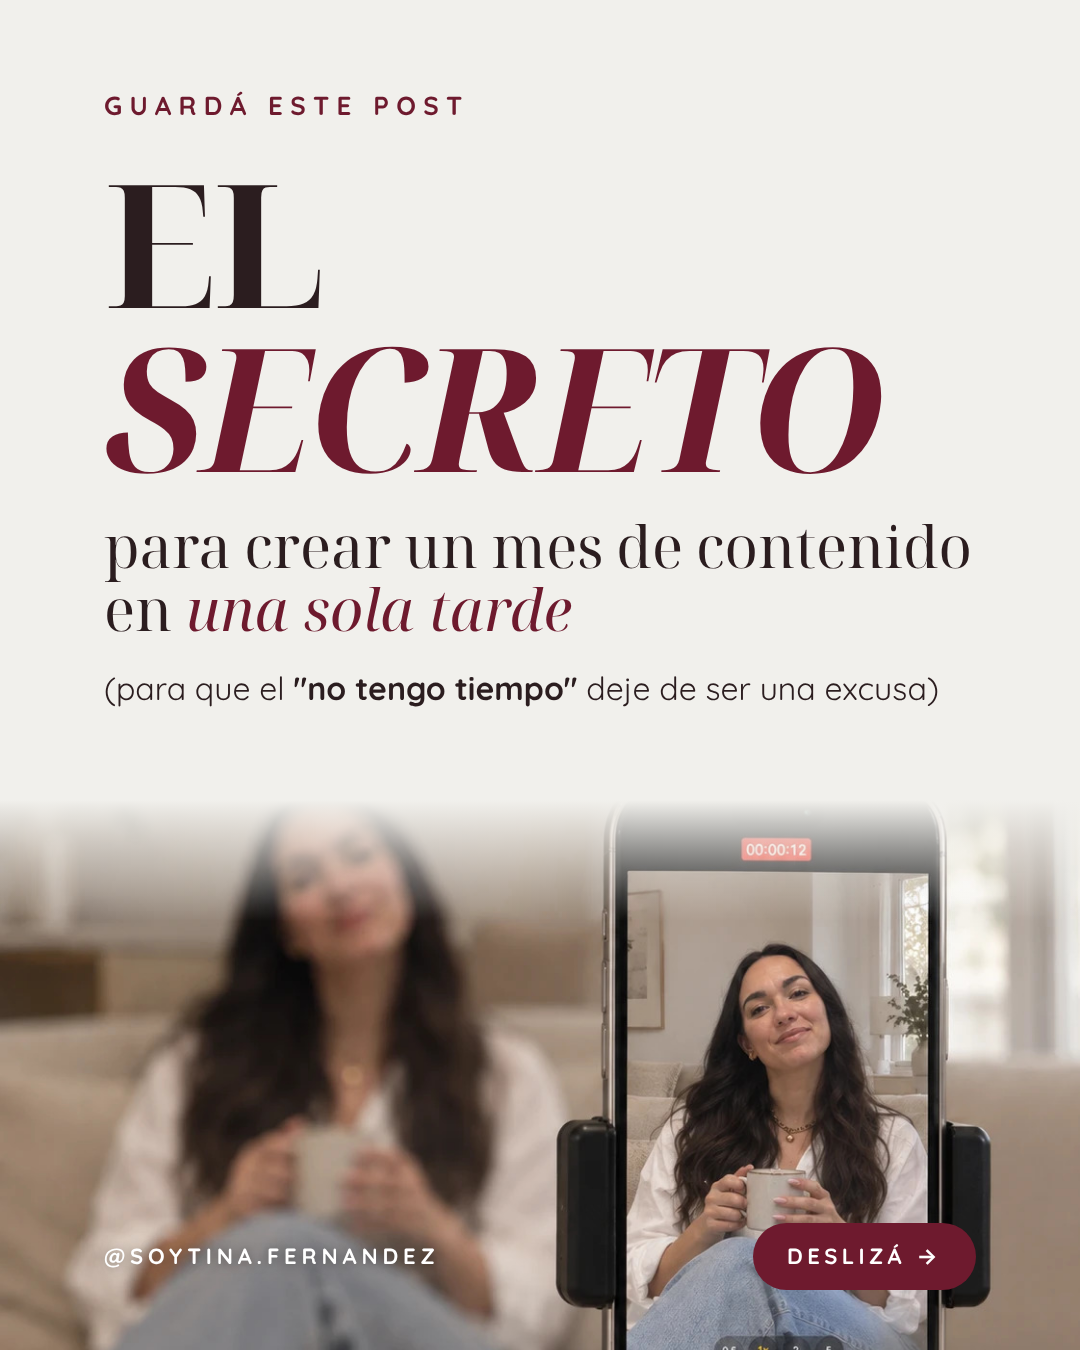
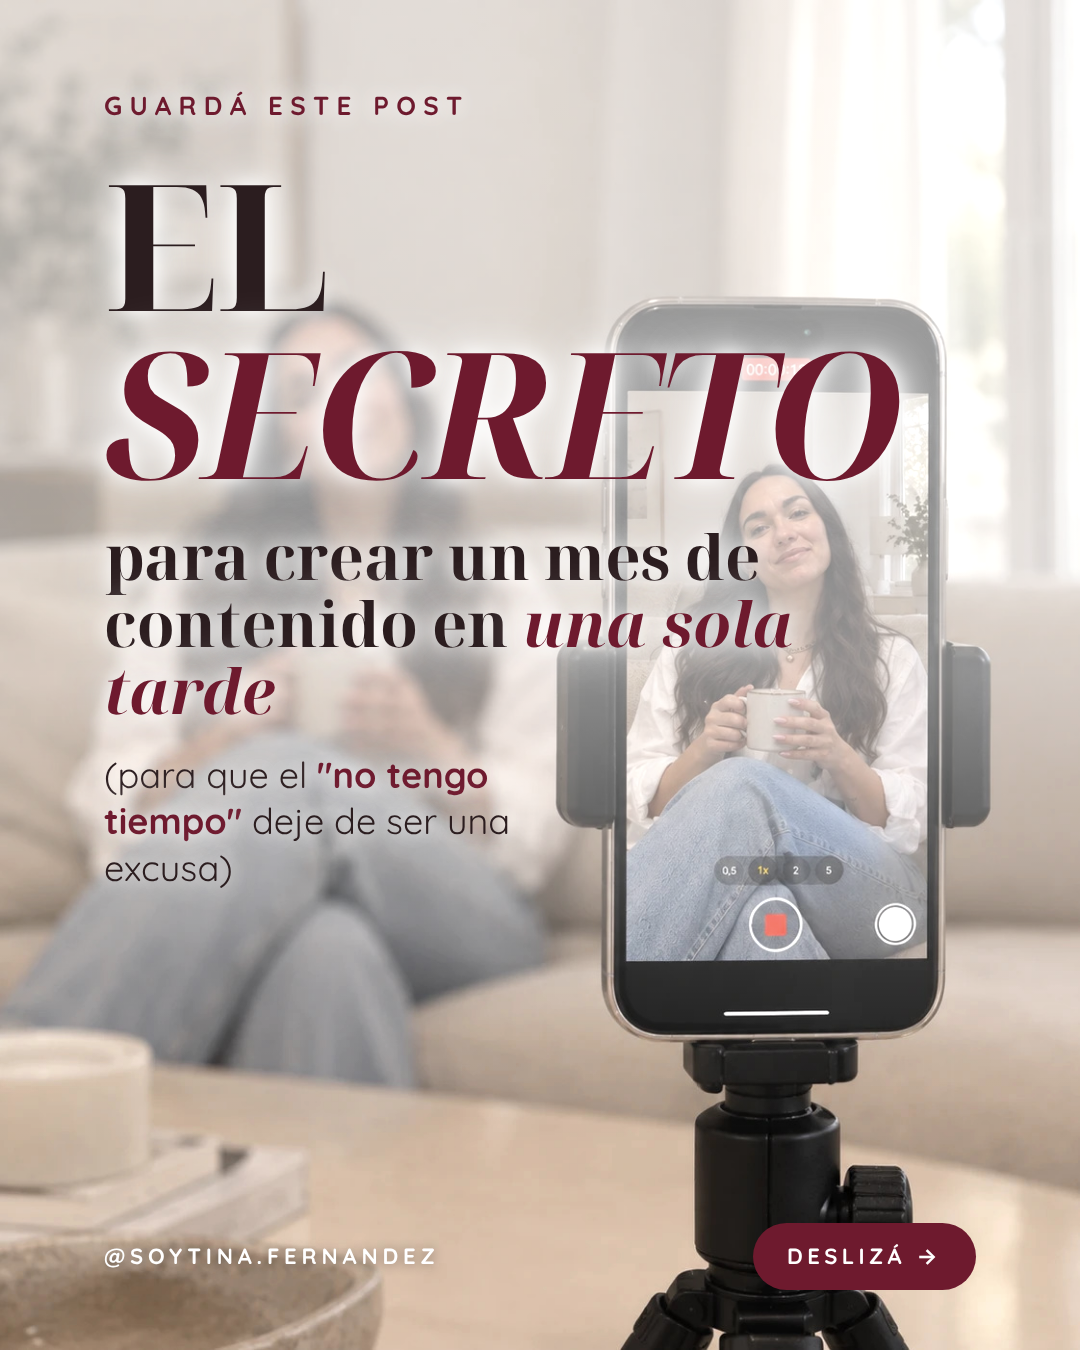
Carrusel 01: portada con foto a sangre aclarada y letras bold con halo blanco
Claude-Session: https://claude.ai/code/session_01646vauRcMy6cepeBrdUKa1

diff --git a/carruseles/01-mes-de-contenido-en-una-tarde/slides.html b/carruseles/01-mes-de-contenido-en-una-tarde/slides.html
@@ -66,17 +66,19 @@
   .portada { justify-content: flex-start; padding-top: 88px; }
   .foto { position: absolute; inset: 0; z-index: 0; }
   .foto img { width: 100%; height: 100%; object-fit: cover; }
-  .portada .foto { top: 800px; }
-  .portada .secreto { font-size: 172px; font-weight: 700; line-height: .95; text-transform: uppercase; letter-spacing: -0.02em; margin-bottom: 28px; }
-  .portada .secreto mark { font-weight: 700; }
-  .portada .promesa { font-family: var(--font-titulo); font-size: 58px; line-height: 1.08; margin-bottom: 28px; }
-  .portada .promesa mark { font-style: italic; font-weight: 400; }
-  .portada .excusa { font-size: 32px; line-height: 1.3; }
-  .portada .foto img { object-position: 50% 40%; }
+  /* Foto a sangre, aclarada, con letras oscuras y halo blanco */
+  .portada .foto img { object-position: 50% 50%; filter: brightness(1.12) saturate(.9); }
   .portada .foto::after {
     content: ""; position: absolute; inset: 0;
-    background: linear-gradient(to bottom, rgba(241,240,236,1) 0%, rgba(241,240,236,0) 22%);
+    background: linear-gradient(to bottom, rgba(255,255,255,.62) 0%, rgba(255,255,255,.5) 50%, rgba(255,255,255,.12) 72%, rgba(255,255,255,0) 85%);
   }
+  .portada .contenido { text-shadow: 0 0 18px #fff, 0 0 36px #fff, 0 0 60px rgba(255,255,255,.9); }
+  .portada .secreto { font-size: 176px; font-weight: 700; line-height: .95; text-transform: uppercase; letter-spacing: -0.02em; margin-bottom: 28px; color: var(--texto); }
+  .portada .secreto mark { font-weight: 700; color: var(--acento); }
+  .portada .promesa { font-family: var(--font-titulo); font-weight: 700; font-size: 62px; line-height: 1.08; margin-bottom: 28px; color: var(--texto); }
+  .portada .promesa mark { font-style: italic; font-weight: 700; color: var(--acento); }
+  .portada .excusa { max-width: 480px; font-size: 36px; font-weight: 400; line-height: 1.3; color: var(--texto); }
+  .portada .excusa b { font-weight: 700; color: var(--acento); }
   .portada .kicker {
     font-size: 26px; font-weight: 700; text-transform: uppercase; letter-spacing: .28em;
     color: var(--acento); margin-bottom: 36px;

diff --git a/carruseles/marca.md b/carruseles/marca.md
@@ -38,6 +38,8 @@
   - Interior: demasiado editorial pierde lo llamativo. Preferir UNA frase grande por slide (serif bold ~130px,
     palabra clave en bordó cursiva) + una línea corta en Quicksand. Sin etiquetas chicas, líneas ni textos de apoyo largos.
     Pasos: número en círculo bordó + frase corta. Cuanto más simple y conciso, mejor.
+  - Portada: foto A SANGRE (ocupa todo el fondo), aclarada con velo blanco arriba; letras oscuras/bordó
+    con halo/sombra blanca para que resalten; BOLD en lo importante. (No le gustó foto solo en la mitad de abajo.)
   - Portada fuerte: palabra gancho GIGANTE en mayúsculas (ej. "EL SECRETO", en bordó cursiva) + promesa en serif
     + bajada chica que rompe la excusa ("para que el 'no tengo tiempo' deje de ser una excusa").
   - Flechas de continuidad ("Así →") siempre hacia la DERECHA (se desliza al costado), nunca hacia abajo.
